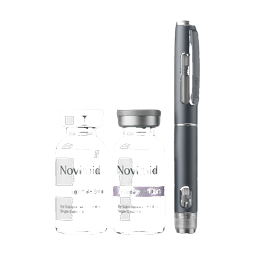
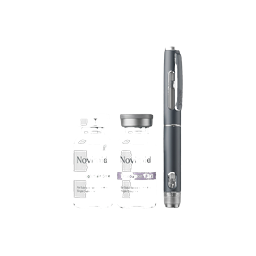
Prevent tab and clinical product images from clipping.
Move explore tab thumbs into normal flow, keep clinical vials inside visible bounds, and give intake product cards safer padding above the sticky footer.

diff --git a/web/src/app/globals.css b/web/src/app/globals.css
@@ -1177,19 +1177,20 @@ details[open] .faq-plus {
 .explore-tab-link[data-active="false"] .explore-tab-img {
   display: none !important;
   opacity: 0 !important;
+  width: 0 !important;
+  height: 0 !important;
+  margin: 0 !important;
 }
 
 .explore-tab-link[data-active="true"] .explore-tab-img {
-  right: 6px !important;
-  bottom: 2px !important;
-  top: auto !important;
-  left: auto !important;
-  max-height: 3.75rem;
-  max-width: 3.75rem;
-  width: auto;
-  height: auto;
+  display: block;
+  width: 2.35rem;
+  height: 2.35rem;
+  max-width: 2.35rem;
+  max-height: 2.35rem;
   object-fit: contain;
-  object-position: center bottom;
+  object-position: center;
+  flex-shrink: 0;
 }
 
 .explore-tab-link[data-active="true"] {
@@ -1281,7 +1282,7 @@ details[open] .faq-plus {
   display: block;
   width: 100%;
   height: 100%;
-  padding: 6px 14px 8px;
+  padding: 10px 18px 12px;
   object-fit: contain;
   object-position: center;
   filter: drop-shadow(0 14px 28px rgba(44, 58, 53, 0.14));
@@ -1369,10 +1370,10 @@ details[open] .faq-plus {
   }
 
   .explore-tab-link[data-active="true"] .explore-tab-img {
-    right: 4px !important;
-    bottom: 2px !important;
-    max-height: 3.25rem;
-    max-width: 3.25rem;
+    width: 2rem;
+    height: 2rem;
+    max-width: 2rem;
+    max-height: 2rem;
   }
 
   /* Mobile: same contain-in-stage rules — square assets never crop */
@@ -1386,7 +1387,7 @@ details[open] .faq-plus {
   }
 
   .explore-hero-card-product-img {
-    padding: 4px 10px 6px;
+    padding: 8px 14px 10px;
   }
 
   .explore-hero-card-title {
@@ -2186,18 +2187,22 @@ details[open] .faq-plus {
   display: flex;
   align-items: center;
   justify-content: center;
-  gap: 16px;
+  gap: 12px;
   min-height: 200px;
-  overflow: hidden;
+  overflow: visible;
+  padding: 12px 8px;
 }
 
 .yt-clinical__vial {
-  height: 220px;
+  height: auto;
+  max-height: 200px;
   width: auto;
+  max-width: min(48%, 150px);
   object-fit: contain;
+  object-position: center;
 }
-.yt-clinical__vial--tirz { transform: translateX(12px) rotate(-6deg); }
-.yt-clinical__vial--sema { transform: translateX(-12px) rotate(6deg); }
+.yt-clinical__vial--tirz { transform: translateX(6px) rotate(-5deg); }
+.yt-clinical__vial--sema { transform: translateX(-6px) rotate(5deg); }
 
 /* Plan product cards */
 .yt-clinical__products {
@@ -2241,14 +2246,15 @@ details[open] .faq-plus {
   overflow: hidden;
   flex-shrink: 0;
   border: 1.5px solid var(--yt-ink);
-  background: var(--yt-neutral-200);
+  background: linear-gradient(180deg, #e8f0ea 0%, #c5d5b0 100%);
 }
 .yt-clinical-product__thumb img {
   width: 100%;
   height: 100%;
   object-fit: contain;
   object-position: center;
-  padding: 4px;
+  padding: 5px;
+  box-sizing: border-box;
 }
 
 .yt-clinical-product__intro {
@@ -2455,9 +2461,11 @@ details[open] .faq-plus {
   }
   .yt-clinical__visual {
     min-height: 280px;
+    padding: 16px 12px;
   }
   .yt-clinical__vial {
-    height: 300px;
+    max-height: 260px;
+    max-width: min(48%, 170px);
   }
 }
 

diff --git a/web/src/components/StartIntake.tsx b/web/src/components/StartIntake.tsx
@@ -205,7 +205,7 @@ export function StartIntake() {
         backLabel={step === 0 ? "Home" : "Back"}
       />
 
-      <div className="shell flex-1 py-6 pb-28 sm:py-10 sm:pb-32">
+      <div className="shell flex-1 py-6 pb-36 sm:py-10 sm:pb-40">
         <div className="mx-auto grid max-w-3xl gap-3 sm:grid-cols-3">
           {[
             { k: "Physician-led", v: "Board-certified oversight" },
@@ -274,7 +274,7 @@ export function StartIntake() {
                     }`}
                   >
                     <div
-                      className={`relative aspect-[16/10] ${
+                      className={`relative aspect-[4/3] sm:aspect-[16/10] ${
                         item.image.src.includes("product-") ? "bg-[#E8F0EA]" : "bg-cloud"
                       }`}
                     >
@@ -284,7 +284,7 @@ export function StartIntake() {
                         fill
                         className={
                           item.image.src.includes("product-")
-                            ? "object-contain object-center p-4"
+                            ? "object-contain object-center p-5"
                             : "object-cover object-center"
                         }
                         sizes="(max-width: 640px) 92vw, 280px"

diff --git a/web/src/components/YuccaTreatmentsExplore.tsx b/web/src/components/YuccaTreatmentsExplore.tsx
@@ -58,12 +58,18 @@ export function YuccaTreatmentsExplore({
             >
               <span className="explore-tab-border" aria-hidden />
               <span className="explore-tab-fill" aria-hidden />
-              <span className="relative z-[2] max-w-[52%] whitespace-nowrap">{c.tab}</span>
+              <span
+                className={`relative z-[2] min-w-0 ${
+                  on ? "mr-2 max-w-[58%] shrink truncate sm:max-w-[62%]" : "mx-auto"
+                }`}
+              >
+                {c.tab}
+              </span>
               {/* eslint-disable-next-line @next/next/no-img-element */}
               <img
                 src={c.tabImage}
                 alt=""
-                className="explore-tab-img pointer-events-none absolute bottom-1 right-1.5 h-auto max-h-[3.75rem] w-auto max-w-[3.75rem] object-contain object-bottom"
+                className="explore-tab-img pointer-events-none relative z-[2] ml-auto h-9 w-9 shrink-0 object-contain object-center sm:h-10 sm:w-10"
               />
             </button>
           );

diff --git a/web/src/components/WhyNovimid.tsx b/web/src/components/WhyNovimid.tsx
@@ -126,7 +126,7 @@ function WhyScienceVisual() {
         <SiteImage
           image={media.product.glp1Hero}
           fill
-          className="!object-contain !object-bottom p-2"
+          className="!object-contain !object-center p-2"
           sizes="150px"
         />
       </div>
